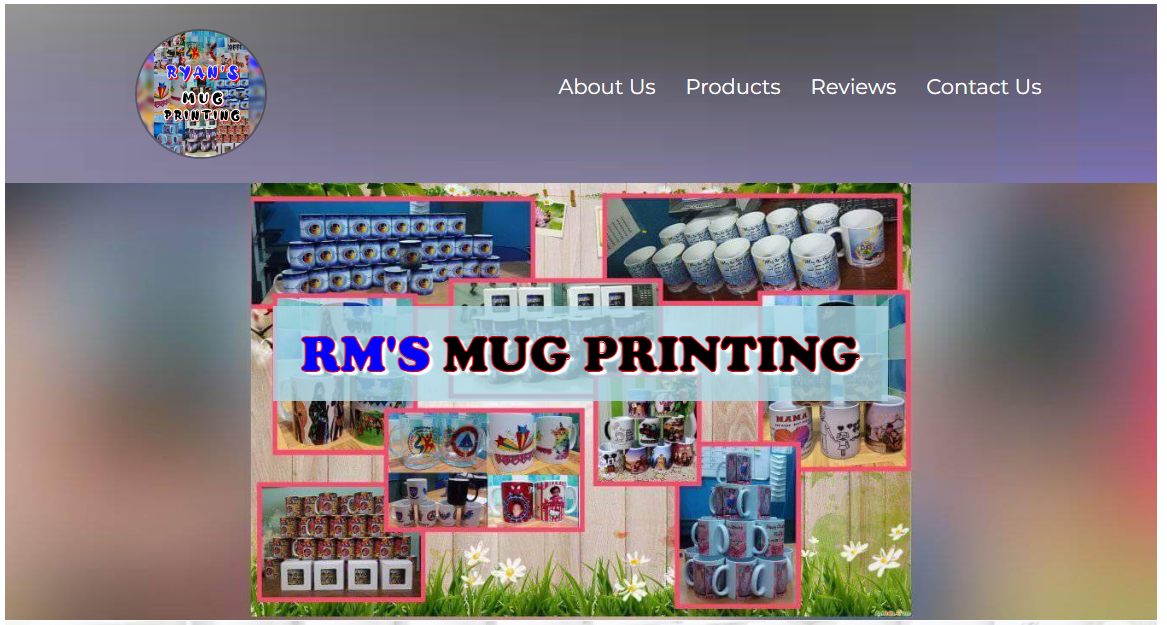
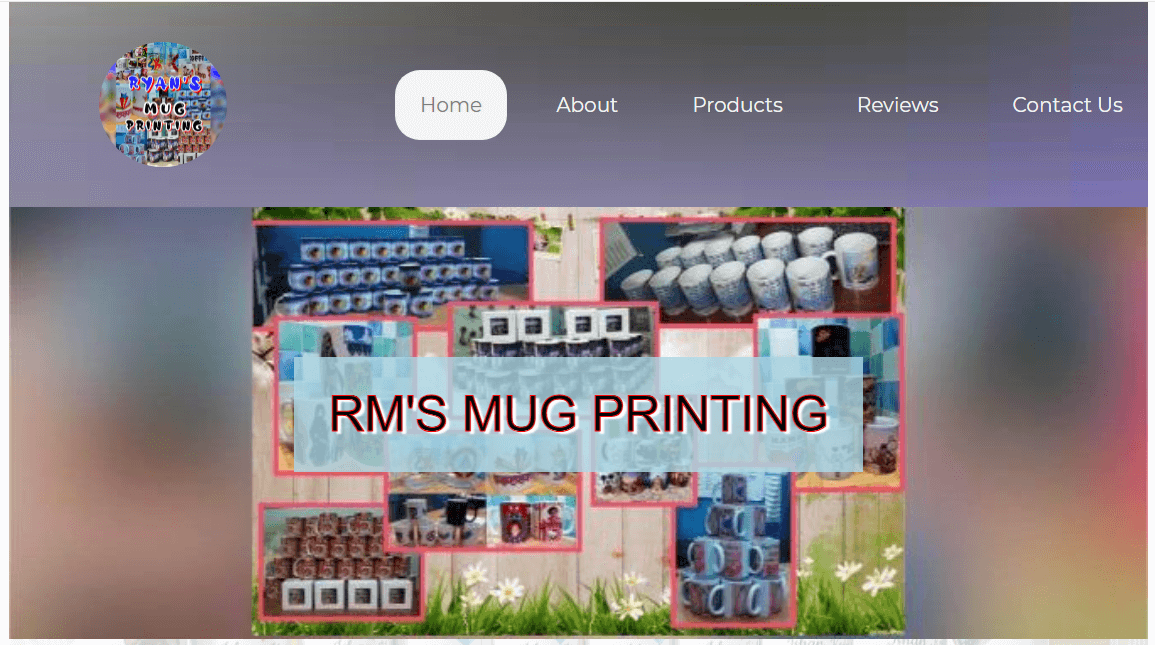
finished responsive design

diff --git a/index.html b/index.html
@@ -35,19 +35,21 @@
                 <div class="projects-contents project-tile">
                   <a href="https://github.com/LetranEyeshield/hosp-mgmt-system-thesis" target="_blank">
                       <img id="hms-img" src="images/hms.png" alt="Project Image" />
-                      <p id="hms-p">Hospital Management System</p>
+                      <p id="hms-p">Hospital Management System (Java, MySQL)</p>
                   </a>
                 </div>
-                <div class="projects-contents project-tile">
-                    <a href="https://github.com/LetranEyeshield/rhu_elites" target="_blank">
-                      <img id="rhu-elites-img" src="images/rhu_elites.png" alt="Project Image" />
-                      <p id="rhu-elites-p">RHU Elites Website</p>
-                  </a>
-                </div>
+
+                  <div class="projects-contents project-tile">
+                    <a href="https://rms-mug-printing.vercel.app/" target="_blank">
+                      <img id="dc-img" src="images/rms.png" alt="Project Image" />
+                      <p id="dc-p">RM's Mug Printing(Next.js, Tailwind, Typescript)</p>
+                   </a>
+                  </div>
+              
                   <div class="projects-contents project-tile">
                     <a href="https://github.com/LetranEyeshield/the_dc_system" target="_blank">
                       <img id="dc-img" src="images/dc.png" alt="Project Image" />
-                      <p id="dc-p">The DC System</p>
+                      <p id="dc-p">The DC System(Java, MySQL)</p>
                   </a>
                   </div>
               </div>
@@ -56,21 +58,23 @@
                 <div class="projects-contents project-tile">
                   <a href="https://github.com/LetranEyeshield/CRDS" target="_blank">
                       <img id="hms-img" src="images/crds.png" alt="Project Image" />
-                      <p id="hms-p">Civil Registrar Database System</p>
+                      <p id="hms-p">Civil Registrar Database System (Java, MySQL)</p>
                   </a>
                 </div>
                 <div class="projects-contents project-tile">
                     <a href="https://github.com/LetranEyeshield/itr_system" target="_blank">
                       <img id="rhu-elites-img" src="images/itr.png" alt="Project Image" />
-                      <p id="rhu-elites-p">Individual Treatment Record</p>
+                      <p id="rhu-elites-p">Individual Treatment Record (HTML & CSS, PHP, MySQL)</p>
                   </a>
                 </div>
-                  <div class="projects-contents project-tile">
-                    <a href="https://rms-mug-printing.free.nf/index" target="_blank">
-                      <img id="dc-img" src="images/rms.png" alt="Project Image" />
-                      <p id="dc-p">RM's Mug Printing</p>
-                  </a>
-                  </div>
+                
+              <div class="projects-contents project-tile">
+                <a href="https://my-wedding-website-six.vercel.app" target="_blank">
+                  <img id="rhu-elites-img" src="images/rolan-kate.png" alt="Project Image" />
+                  <p id="rhu-elites-p">Wedding Website (Next.js, Tailwind, Typescript)</p>
+                </a>
+              </div>
+
               </div>
 
               </div>

diff --git a/styles/style.css b/styles/style.css
@@ -173,4 +173,80 @@ footer {
   .projects-contents {
     width: 90%;
   }
+  .projects-top {
+    flex-direction: column;
+  }
+  .projects-bottom {
+    flex-direction: column;
+  }
+  .projects-contents img {
+    height: 340px;
+  }
+}
+
+@media (max-width: 580px) {
+  #welcome-section h1 {
+    font-size: 40px;
+  }
+
+  #welcome-section {
+    padding-top: 115px;
+    padding-bottom: 45px;
+  }
+}
+
+@media (max-width: 550px) {
+  #contact-section {
+    padding: 20px 0;
+  }
+  #contact-section ul li {
+    display: block;
+  }
+  #contact-section ul a {
+    padding: 12px 0;
+    margin: 0 auto;
+    display: block;
+  }
+}
+
+@media (max-width: 460px) {
+  header {
+    text-align: center;
+  }
+  #welcome-section h1 {
+    font-size: 32px;
+  }
+  #welcome-section p:nth-of-type(1) {
+    font-size: 19px;
+  }
+  #welcome-section p {
+    font-size: 14px;
+  }
+  #welcome-section a {
+    font-size: 18px;
+  }
+  #welcome-section {
+    padding: 80px 0 15px 0;
+  }
+}
+
+@media (max-width: 380px) {
+  #navbar ul li a {
+    padding: 10px 25px;
+  }
+  #welcome-section h1 {
+    font-size: 27px;
+  }
+  #welcome-section {
+    padding: 65px 0 15px 0;
+  }
+  .projects-contents img {
+    height: 280px;
+  }
+}
+
+@media (max-width: 345px) {
+  #navbar ul li a {
+    padding: 10px 20px;
+  }
 }
